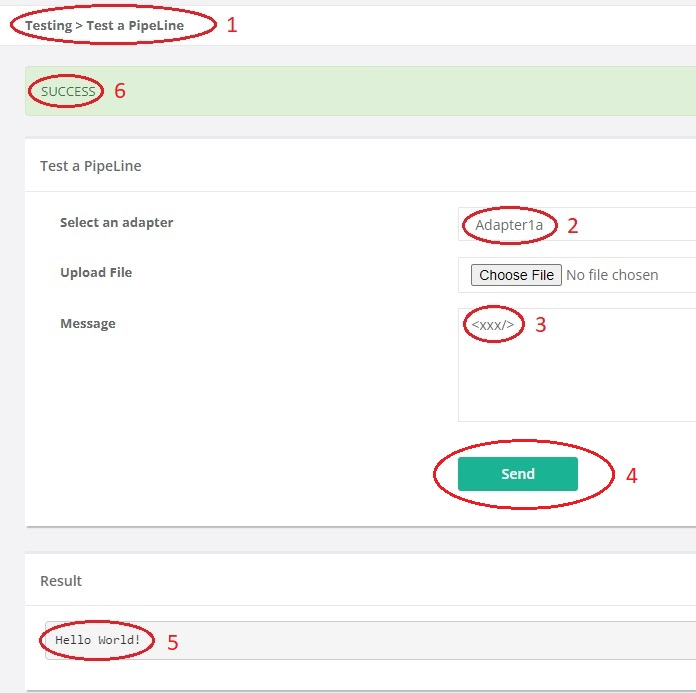
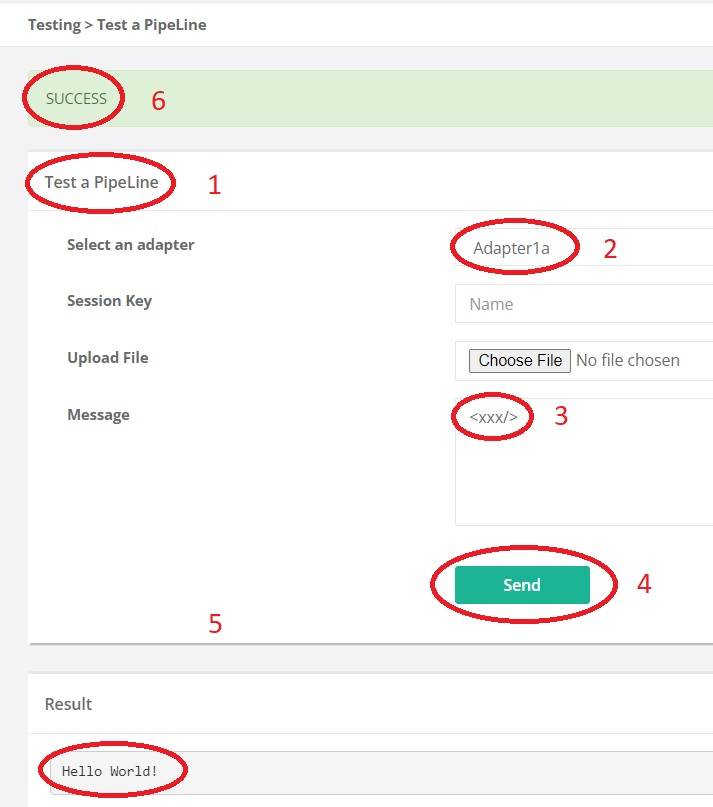
Feedback by Diane

diff --git a/docs/source/gettingStarted/examineExample.rst b/docs/source/gettingStarted/examineExample.rst
@@ -14,6 +14,7 @@ Please do the following:
 
 .. highlight:: none
 
+#. Check whether you have git. You can do this by opening a command prompt and typing ``git --version``.
 #. If you do not have git already, download it from https://git-scm.com/downloads.
 #. Choose some working directory in which you will install the Frank!Runner and do the exercises of the Frank!Manual, say ``franks``.
 #. In a command prompt, go to your ``franks`` directory and clone the Frank!Runner with the following command: ::
@@ -40,12 +41,16 @@ Please do the following:
         |- ...
 
 #. Check that you do NOT have ``franks/frank-runner/build.properties`` at this point. You will study the default Frank application, which is in the directory ``franks/frank-runner/examples/Frank2Example1``.
-#. Start the Frank!Runner as explained in its ``README.md`` file, for example by running ``franks/frank-runner/start.bat``.
+#. Start the Frank!Runner as explained in its ``README.md`` file (shown at https://github.com/ibissource/frank-runner), for example by running ``franks/frank-runner/start.bat``.
+
+   .. WARNING::
+
+      If you are using your computer for other development tasks, you may already have a running webserver that claims port 80. Please close that webserver or configure the Frank!Framework to use another port. Using another port is explained in the README.md file of the Frank!Runner. Your browser may have cached other stuff at http://localhost:80. Press Shift-F5 or Ctrl-F5 in your browser to see the Frank!Framework.
 
 The main menu
 -------------
 
-7. Start a webbrowser and browse to http://localhost. To the left, you see the following menu:
+8. Start a webbrowser and browse to http://localhost. To the left, you see the following menu:
 
    .. image:: mainMenu.jpg
 
@@ -61,7 +66,7 @@ General structure of the example Frank application
 
 Let us now investigate the general structure of the ``Frank2Example1`` application. 
 
-14. Look at the "Adapter Status" page. You see you really do have the ``Frank2Example1`` Frank application (number 2 in the figure below):
+15. Look at the "Adapter Status" page. You see you really do have the ``Frank2Example1`` Frank application (number 2 in the figure below):
 
     .. image:: adapterStatusTopLeft.jpg
 
@@ -81,23 +86,23 @@ The sources of your Frank configs
 
 System administrators may want to check the sources of the Frank configs they see. Doing this is also relevant for Frank developers who want to debug their work. Please do the following:
 
-17. In the main menu, choose "Environment Variables" (number 4 in the figure below).
+18. In the main menu, choose "Environment Variables" (number 4 in the figure below).
 
     .. image:: mainMenu.jpg
 
-#. Press Ctrl-F to search on this page. In the search field, type ``configurations.names``. Iterate over the search results until you see the following properties: "configurations.directory", "configurations.Example1a.classLoaderType", "configurations.Example1b.classLoaderType" and "configurations.names".
+#. In the search field, type ``configurations.names``. You should see ``configurations.names`` with value ``Example1a,Example1b``.
 
    .. NOTE::
 
-      These properties have been set by the Frank!Runner. If you deploy your Frank config another way, you may have to care about these properties yourself.
+      This property and some other properties, have been set by the Frank!Runner. If you deploy your Frank config another way, you may have to care about these properties yourself.
 
-#. Property "configurations.names" has value "Example1a,Example1b", confirming that you have these two Frank configs (excluding the predefined configurations).
-#. Property "configurations.Example1a.classLoaderType" has value "DirectoryClassLoader". This means that configuration "Example1a" comes from the file system of the computer running the Frank!Framework. Frank configurations can also be deployed on the database, resulting in a different value for this property. Property "configurations.Example1b.classLoaderType" also has value "DirectoryClassLoader", confirming that Frank config "Example1b" also comes from the local file system.
-#. Property "configurations.directory" has value ``absolute-path-of-directory-franks\frank-runner\examples\Frank2Example1\configurations``, the "configurations" directory under the "examples/Frank2Example1" instance. This confirms the directory that holds the source code of your configurations.
+#. In the search field, type ``configurations.``. You see some other variables that are explained below.
+#. Property ``configurations.Example1a.classLoaderType`` has value ``DirectoryClassLoader``. This means that configuration "Example1a" comes from the file system of the computer running the Frank!Framework. Frank configurations can also be deployed on the database, resulting in a different value for this property. Property ``configurations.Example1b.classLoaderType`` also has value ``DirectoryClassLoader``, confirming that Frank config "Example1b" also comes from the local file system.
+#. Property ``configurations.directory`` has value ``absolute-path-of-directory-franks\frank-runner\examples\Frank2Example1\configurations``, the "configurations" directory under the "examples/Frank2Example1" instance. This confirms the directory that holds the source code of your configurations.
 
 You can also use the Frank!Console to see what XML code has been loaded. Please do the following:
 
-22. Click "Configurations" in the main menu (number 1 in the figure below).
+23. Click "Configurations" in the main menu (number 1 in the figure below).
 
     .. image:: showConfiguration.jpg
 

diff --git a/docs/source/gettingStarted/horizonsInitialData.rst b/docs/source/gettingStarted/horizonsInitialData.rst
@@ -8,6 +8,8 @@ Introduction
 
 We continue our case study about the imaginary firm NewHorizons, see :ref:`newHorizons` and :ref:`horizonsInterfaces`. In section :ref:`newHorizons` you started development by creating the file ``franks/Frank2Manual/configurations/NewHorizons/Configuration.xml``. You will extend this configuration by adding files to your directory ``NewHorizons``.
 
+The Frank!Framework allows configurations to access a database. Different brands of databases are supported, for example Oracle, MySql and MsSQL. Many databases require you to start a separate executable in addition to the Frank!Framework. An exception is the H2 database. The Frank!Runner configures a H2 database by default, so in this tutorial no action is needed to start the database. Database initialization does not happen automatically; this is the subject of the next subsection.
+
 Enable Liquibase
 ----------------
 
@@ -17,8 +19,7 @@ for the first time. When an enterprise application is restarted later,
 database initialization should be omitted because data in the
 database should be persistent.
 
-The Frank!Framework internally uses Liquibase, see http://www.liquibase.org/,
-to initialize the database. Please switch on Liquibase as follows:
+The Frank!Framework internally uses Liquibase to initialize the database. The Frank!Framework contains Liquibase, so no action is needed to install it. The Frank!Framework should be configured however to switch it on. Please do the following:
 
 #. Add file ``StageSpecifics_LOC.properties`` and give it the following contents:
 
@@ -27,18 +28,19 @@ to initialize the database. Please switch on Liquibase as follows:
 
    .. NOTE::
 
-      You can use many different property files to configure properties. When you choose ``StageSpecifics_LOC.properties``, your settings will not be applied when your configuration is deployed on production. If you would choose ``DeploymentSpecifics.properties``, you settings would also be used in production, provided they are not overruled. More details are in section :ref:`properties`, but before reading that section please finish this chapter first.
+      You can use many different property files to configure properties. When you choose ``StageSpecifics_LOC.properties``, your settings will not be applied when your configuration is deployed on production. If you would choose ``DeploymentSpecifics.properties``, your settings would also be used in production, provided they are not overruled. More details are in section :ref:`properties`, but before reading that section please finish this chapter first.
 
-We illustrate database initialization here for H2 databases, because this database is embedded within the Frank!Framework and does not
-require a process external to it. More information about databases is available in section :ref:`advancedDevelopmentDatabase`. Liquibase expects a so-called changelog, an XML file that defines the data model and the initial data.
+Liquibase expects a so-called changelog, an XML file that defines the data model and the initial data.
 
-2. Please create file ``DatabaseChangelog.xml`` and add XML to initialize the database described in the previous section :ref:`horizonsInterfaces`. Here is the XML to add:
+2. Please create file ``DatabaseChangelog.xml`` in the ``NewHorizons`` directory. Add XML to initialize the database described in the previous section :ref:`horizonsInterfaces`. Here is the XML to add:
 
    .. literalinclude:: ../../../srcSteps/NewHorizons/v410/configurations/NewHorizons/DatabaseChangelog.xml
       :language: xml
 
 For clarity we chose to use SQL statements in the changelog. As a consequence, it is not database independent as would
-be the case if it were pure XML. The shown changelog is specific for H2 databases.
+be the case if it were pure XML. The shown changelog is specific for H2 databases. See http://www.liquibase.org/ for more information about changelogs.
+
+More information about databases is available in section :ref:`advancedDevelopmentDatabase`. 
 
 Test your database
 ------------------

diff --git a/docs/source/gettingStarted/testPipelines.rst b/docs/source/gettingStarted/testPipelines.rst
@@ -8,11 +8,13 @@ This section shows three ways to test and debug your pipeline. First, you can ru
 Test a Pipeline
 ---------------
 
-See the figure below:
+An adapter has receivers to receive messages and a pipeline to transform them. The received message can be accompanied by so-called session keys, which are just name/value pairs. Pipelines can be tested with the Testing | Test a Pipeline option on the main menu as shown below:
 
 .. image:: testPipeline.jpg
 
-You can run your pipeline by choosing "Testing | Test a Pipeline" from the main menu. You have feedback that you chose that option (number 1). Next, choose an adapter (number 2). Then enter the input message you want (number 3). Usually the input message should be XML. Many pipelines expect XML and produce unexpected errors if the input does not conform the XML standard. Then press "Send" (number 4). You see the output message (number 5) and the ``state`` of the exit (number 6).
+You have feedback that you chose that option (number 1). Next, choose an adapter (number 2). Then enter the input message to be transformed by the pipeline (number 3). Usually the input message should be XML. Many pipelines expect XML and produce unexpected errors if the input does not conform the XML standard. It is also possible to enter the message by uploading a file. For text files, the encoding (e.g. UTF-8) has to be specified (field "Encoding", not shown). There is a field called "Session Key" that can be used to add a session key to the message. It is fine to leave that blank.
+
+Next press "Send" (number 4). You see the output message (number 5) and the ``state`` of the exit (number 6).
 
 Ladybug
 -------
